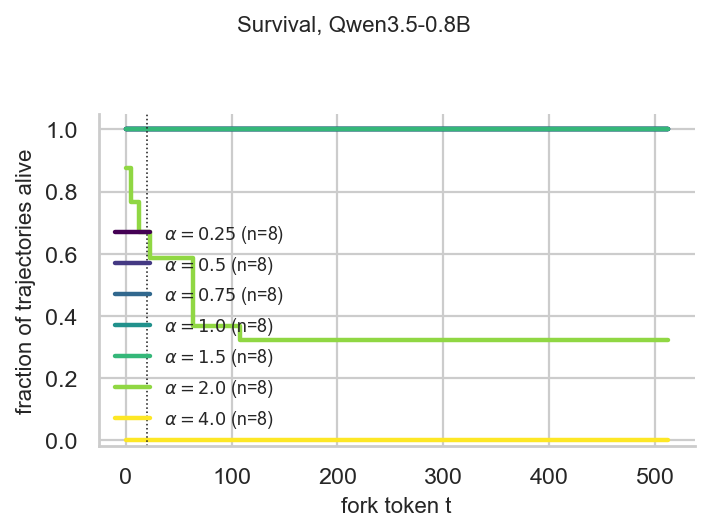
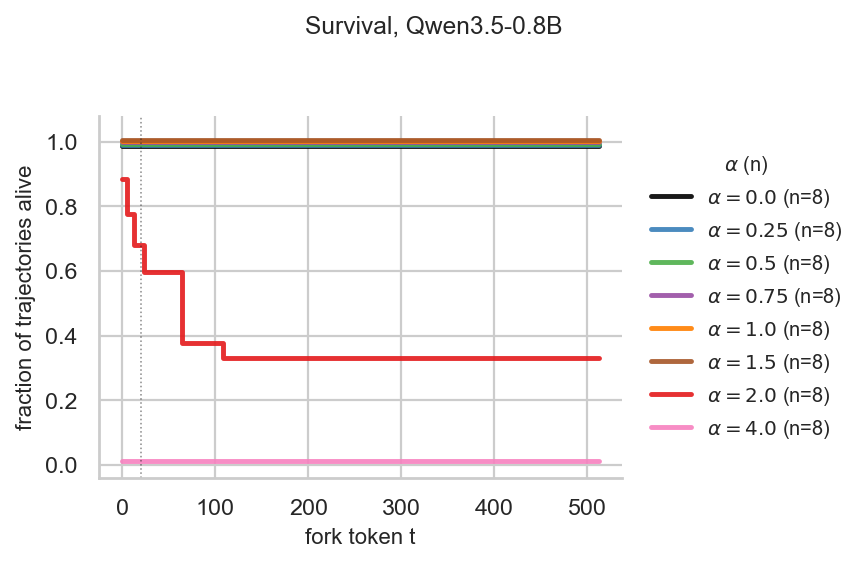
survival: legend outside, contrast palette, jitter for overlapping S=1 lines

diff --git a/scripts/survival.py b/scripts/survival.py
@@ -169,10 +169,11 @@ def survival_pmass(P: np.ndarray, fork: list[int], gen_lens: np.ndarray,
 def main(a: Args):
     root = Path(a.runs_root); out = Path(a.out); out.mkdir(parents=True, exist_ok=True)
     n_panels = len(a.thresholds)
-    fig, axes = plt.subplots(1, n_panels, figsize=(4.6 * n_panels, 3.4),
+    fig, axes = plt.subplots(1, n_panels, figsize=(5.6 * n_panels, 3.6),
                              sharey=True, squeeze=False)
-    cmap = plt.get_cmap("viridis")
-    colors = {alpha: cmap(i / max(1, len(a.alphas) - 1)) for i, alpha in enumerate(a.alphas)}
+    # categorical colors with strong contrast across alpha (avoid viridis dark cluster)
+    palette = ["#000000", "#377eb8", "#4daf4a", "#984ea3", "#ff7f00", "#a65628", "#e41a1c", "#f781bf"]
+    colors = {alpha: palette[i % len(palette)] for i, alpha in enumerate(a.alphas)}
 
     rows_summary = []
     for j, thr in enumerate(a.thresholds):
@@ -193,7 +194,9 @@ def main(a: Args):
                 xlabel = "fork token t"
             else:
                 raise SystemExit(f"unknown metric {a.metric!r}; use 'kl', 'pmass', or 'pmass_eval'")
-            ax.step(xs, S, where="post", color=colors[alpha], lw=2.0,
+            # tiny vertical jitter so overlapping S=1.0 lines remain individually visible
+            jitter = 0.004 * (list(a.alphas).index(alpha) - (len(a.alphas) - 1) / 2.0)
+            ax.step(xs, S + jitter, where="post", color=colors[alpha], lw=2.2, alpha=0.9,
                     label=rf"$\alpha={alpha}$ (n={n})")
             below_half = np.where(S <= 0.5)[0]
             t50 = int(xs[below_half[0]]) if len(below_half) else None
@@ -205,13 +208,15 @@ def main(a: Args):
         if n_panels > 1:
             ax.set_title(f"threshold = {thr:g}")
         ax.set_xlabel(xlabel)
-        ax.set_ylim(-0.02, 1.05)
+        ax.set_ylim(-0.04, 1.08)
         if j == 0:
             ax.set_ylabel("fraction of trajectories alive")
-        ax.legend(loc="lower left", fontsize=8, frameon=False)
-        ax.axvline(20, color="k", ls=":", lw=0.7)
+        # legend outside on the right, never covers the axes
+        ax.legend(loc="center left", bbox_to_anchor=(1.02, 0.5),
+                  fontsize=9, frameon=False, title=r"$\alpha$ (n)", title_fontsize=9)
+        ax.axvline(20, color="k", ls=":", lw=0.7, alpha=0.5)
 
-    fig.suptitle(f"Survival, {a.model_contains}", fontsize=10)
+    fig.suptitle(f"Survival, {a.model_contains}", fontsize=11)
     fig.tight_layout(rect=(0, 0, 1, 0.94))
     out_p = out / f"survival_{a.metric}.png"
     fig.savefig(out_p, dpi=160, bbox_inches="tight")

diff --git a/README.md b/README.md
@@ -1,31 +1,23 @@
 # iso-kl-figure
 
-Calibrate one steering knob so different methods deliver the same per-token KL budget. Then test whether the model still answers a forced-choice question while it's being steered.
+How strongly should we steer a model? How do we compare steering methods when one might be strong and one weak? These are calibration questions.
 
-Headline result on Qwen3.5-0.8B (mean_diff, w=512, n=8 held-out prompts):
+Treat steering as an intervention: we want maximum behavior change with minimum side effects, like incoherence, format collapse, or random off-target damage.
 
-- alpha in {0, 0.25, 0.5, 0.75, 1.0, 1.5}: 0 of 8 trajectories die at any fork.
-- alpha = 2.0: 8 of 8 die. Median death time t = 64.
-- alpha = 4.0: 8 of 8 die at t = 0.
+A useful analogy is a car on the road. A small nudge to the steering wheel gets corrected by the driver. A larger nudge causes a lane change. A very large nudge causes a crash the driver cannot recover from. Some crashes happen immediately. Some take a few seconds to develop, after the driver tries and fails to correct.
 
-A phase transition at roughly 2x the iso-KL coefficient. Figures and table below.
+We measure the distribution shift caused by steering, especially the worst 5% of per-token KL that would cause a "crash", and find the largest scalar coefficient C that keeps that 5% below a safe threshold (default: 1 nat). At `alpha = 1` the steering is delivering exactly that calibrated dose. At `alpha = 2` it is doing twice the dose. *Iso-KL* means: comparing two methods at the same alpha = 1 means they are spending the same per-token KL budget, so any behavioural difference is not just one of them being louder.
 
-## Glossary
+Then comes the survival question. If the calibration only looked at the first w tokens of the rollout, do crashes still happen later? Most trajectories either stabilize or go off track within the first 50-100 tokens, but we want to see the long tail too. So at every fork t we ask: can the model still produce one of two valid answer tokens (`true` or `false`) when forced into a JSON-schema prefill? If yes, *alive* at t. If the probability mass on those tokens drops below 0.95, *dead*, and dead stays dead. Survival S(t) is the fraction still alive at token t, with right-censoring for rollouts that hit EOS before t.
 
-We deliberately reuse a few terms from survival analysis and steering. Definitions below are the operational ones used in this repo, not the textbook ones.
+Headline result on Qwen3.5-0.8B (`mean_diff`, w=512, n=8 held-out prompts):
 
-- *steering coefficient (alpha)*: scalar multiplier on a steering vector added to residual-stream activations at one layer. `alpha = 1.0` is the iso-KL-calibrated coefficient. `alpha = 2.0` is twice that. `alpha = 0` is the unsteered base model.
-- *iso-KL calibration*: bisection on alpha such that the 95th-percentile per-token `KL(steered || base)` over a w-token calibration window equals 1 nat. The output is `c_star`, the coefficient at `alpha = 1`. This makes different steering methods comparable: any two methods at `alpha = 1` are spending the same per-token KL budget.
-- *p95 KL*: 95th percentile of per-token `KL(steered || base)` over the calibration window. Robust to single-token spikes.
-- *window (w)*: length in tokens of the calibration rollout. `w = 512` for the figures here.
-- *pmass*: probability mass the model puts on the set `{true, false}` after we splice in a JSON schema prefill (`'\nI should answer now.</think>{"value": '`) at fork token t. A forced-choice probe: can the model still produce one of the two valid answer tokens, or has steering wrecked the format?
-- *pmass_eval*: same probe, on a held-out prompt set, evaluated at every fork t.
-- *fork point t*: the token in the rollout where we splice the schema and read pmass.
-- *death*: irreversible event. A trajectory is *alive* at fork t if `pmass_eval(t) >= 0.95`. The first time it drops below, it is dead and stays dead. The 0.95 threshold is where the JSON schema stops being a stable attractor; the model is producing other tokens.
-- *right-censoring*: the rollout hit EOS at length L < t, so we never see fork t. The trajectory drops out of the at-risk denominator from L onward. Incomplete information, not death.
-- *survival S(t)*: fraction of trajectories still alive at fork t, with right-censored trajectories removed from the at-risk set. Kaplan-Meier estimator.
-- *mean_diff*: steering vector built as the difference of mean activations on a contrastive prompt pair.
-- *spaghetti plot*: every individual KL trajectory drawn as one thin line, alive segments green, dead segments red, black line is the median.
+- `alpha` in {0, 0.25, 0.5, 0.75, 1.0, 1.5}: 0 of 8 trajectories die at any fork.
+- `alpha = 2.0`: 8 of 8 die. Median death time t = 64.
+- `alpha = 4.0`: 8 of 8 die at t = 0.
+
+A phase transition at roughly 2x the iso-KL coefficient. The calibrated dose has long-horizon headroom; doubling the dose is a slow crash; quadrupling it is an instant one. Figures and table below.
+
 
 ## Spaghetti: per-token KL trajectories, coloured by survival
 
@@ -112,3 +104,21 @@ Out of scope:
 - *Pmass is a proxy.* It scores whether the model still produces one of two specific tokens after we splice in a schema. A model that has gone off-format but is otherwise coherent gets scored as dead.
 - *n = 8.* Held-out prompts, not held-out seeds. The phase-transition shape is consistent at this scale; the exact half-life at alpha = 2 is not.
 - *One model so far.* Gemma 4B, Gemma 12B (4-bit), OLMo-2 1B, and OLMo-3 7B at w = 4096 are queued. The phase-transition story may or may not survive scaling.
+
+
+## Glossary
+
+Operational definitions used in this repo, not textbook ones. Skim and come back as needed.
+
+- *steering coefficient (alpha)*: scalar multiplier on the steering vector added to residual-stream activations at one layer. `alpha = 1.0` is the iso-KL-calibrated coefficient C. `alpha = 0` is the unsteered base model.
+- *iso-KL calibration*: bisection on alpha such that the 95th-percentile per-token `KL(steered || base)` over a w-token calibration window equals 1 nat. Output is `c_star`, the coefficient at `alpha = 1`.
+- *p95 KL*: 95th percentile of per-token `KL(steered || base)` over the calibration window. The "worst 5%" measure used by calibration.
+- *window (w)*: length in tokens of the calibration rollout. `w = 512` for the figures here.
+- *pmass*: probability the model puts on the set `{true, false}` after we splice in a JSON schema prefill (`'\nI should answer now.</think>{"value": '`) at fork token t.
+- *pmass_eval*: pmass on a held-out prompt set, at every fork t.
+- *fork point t*: the token in the rollout where we splice the schema and read pmass.
+- *death*: irreversible. Alive at t means `pmass_eval(t) >= 0.95`. First time it drops below, dead, and stays dead. Below 0.95 the JSON schema stops being a stable attractor.
+- *right-censoring*: the rollout hit EOS at length L < t, so we never see fork t. Drops out of the at-risk denominator from L onward; not death.
+- *survival S(t)*: Kaplan-Meier estimator of the fraction alive at fork t.
+- *mean_diff*: steering vector built as the difference of mean activations on a contrastive prompt pair.
+- *spaghetti plot*: every individual KL trajectory drawn as one thin line, alive segments green, dead red, black line is the median.

diff --git a/outputs_qwen35_w512_dense/Qwen3.5-0.8B_mean_diff_s0_w512_dense/figs_auto/survival/survival_pmass_eval.md b/outputs_qwen35_w512_dense/Qwen3.5-0.8B_mean_diff_s0_w512_dense/figs_auto/survival/survival_pmass_eval.md
@@ -1,5 +1,6 @@
 | metric     |   threshold |   alpha |   n |   S_mid |   S_end |   t_S<=0.5 |
 |:-----------|------------:|--------:|----:|--------:|--------:|-----------:|
+| pmass_eval |       0.950 |   0.000 |   8 |   1.000 |   1.000 |            |
 | pmass_eval |       0.950 |   0.250 |   8 |   1.000 |   1.000 |            |
 | pmass_eval |       0.950 |   0.500 |   8 |   1.000 |   1.000 |            |
 | pmass_eval |       0.950 |   0.750 |   8 |   1.000 |   1.000 |            |
